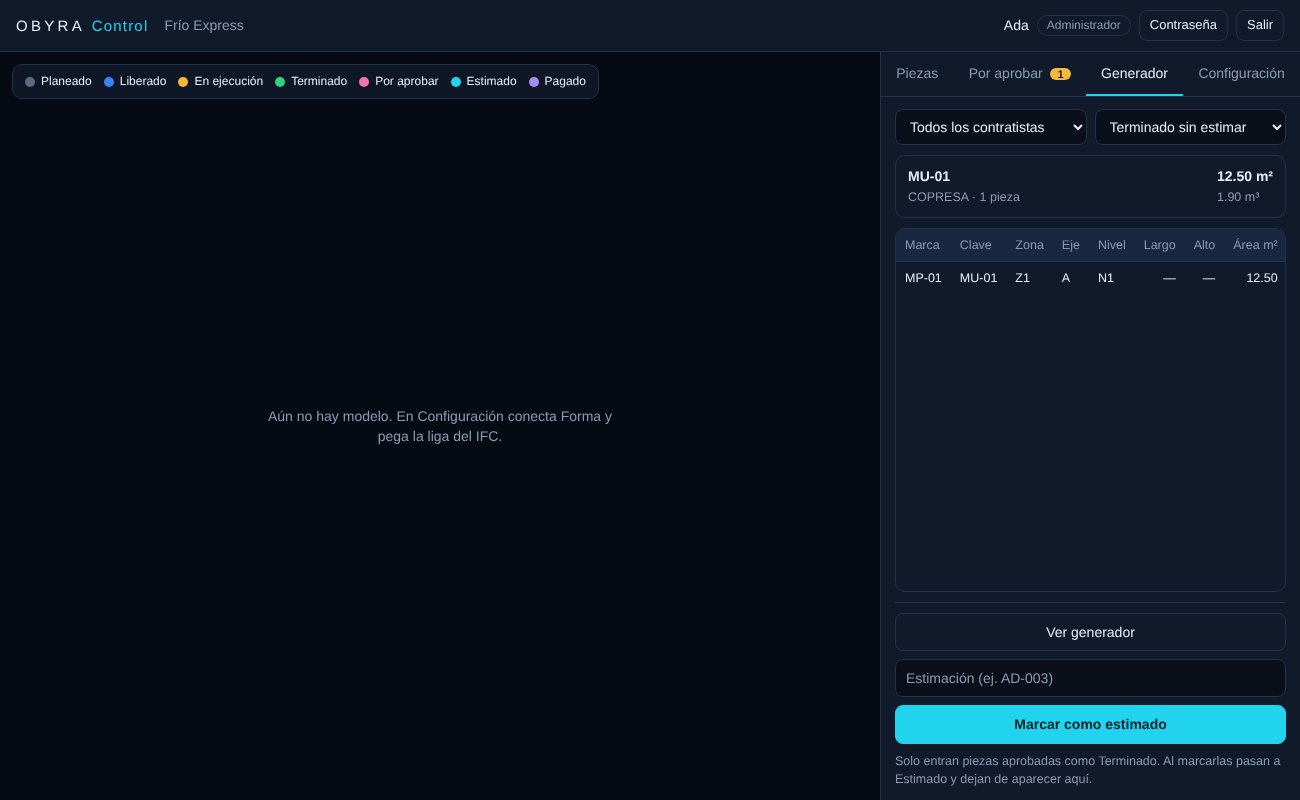
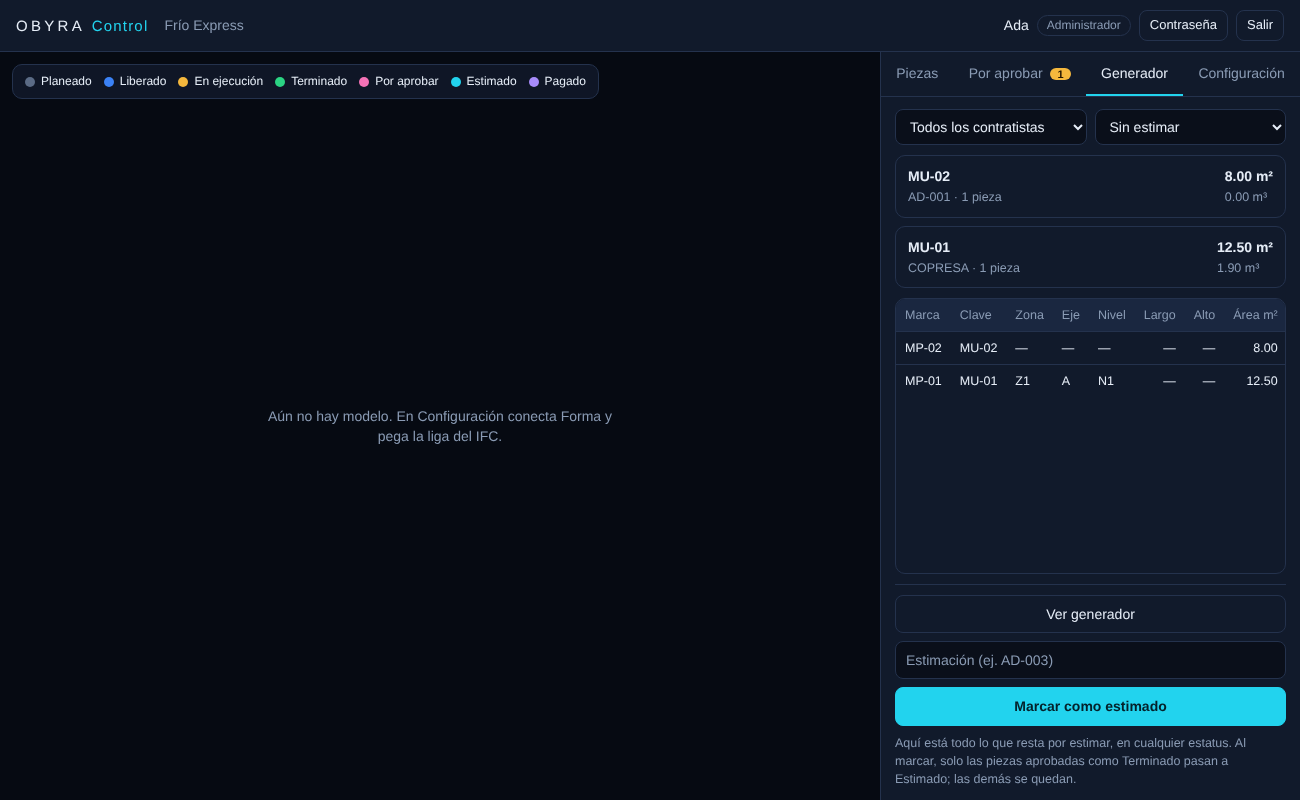
Generador: vista "Sin estimar" con todo lo que resta, en cualquier estatus
Marcar como estimado sigue aplicando solo a piezas terminadas y aprobadas.

Claude-Session: https://claude.ai/code/session_016C4SN1LCdYAxZtzhnanQV2

diff --git a/public/app.js b/public/app.js
@@ -378,7 +378,7 @@
     return Object.keys(S.piezas).filter(function (g) {
       var p = S.piezas[g], r = rec(g);
       if (c && p.contratista !== c) return false;
-      if (vista === "porestimar") return r.estatus === "Terminado" && !r.pend;
+      if (vista === "porestimar") return !r.estimacion; // cualquier estatus: lo que resta por estimar
       if (vista === "estimadas") {
         var n = $("g-estnum").value;
         return !!r.estimacion && (!n || r.estimacion === n);
@@ -417,7 +417,7 @@
         el("b", { text: x.clave + (x.partida ? " · " + x.partida : "") }), el("b", { text: f2(x.area) + " m²" }),
         el("span", { class: "s", text: x.contratista + " · " + x.piezas + (x.piezas === 1 ? " pieza" : " piezas") }), el("span", { class: "s", text: f2(x.volumen) + " m³" }),
       ]);
-    }) : [el("p", { class: "muted", text: { porestimar: "No hay piezas terminadas y aprobadas pendientes de estimar.", estimadas: "Todavía no hay piezas estimadas." }[$("g-vista").value] || "No hay piezas." })]);
+    }) : [el("p", { class: "muted", text: { porestimar: "No quedan piezas por estimar.", estimadas: "Todavía no hay piezas estimadas." }[$("g-vista").value] || "No hay piezas." })]);
     var head = el("tr", null, ["Marca", "Clave", "Zona", "Eje", "Nivel", "Largo", "Alto", "Área m²", "Vol. m³", "Estatus", "Estimación"].map(function (h, i) { return el("th", { class: i >= 5 && i <= 8 ? "num" : null, text: h }); }));
     var rows = filas.map(function (g) {
       var p = S.piezas[g], r = rec(g);
@@ -456,7 +456,7 @@
   }
   function descripcionVista() {
     var v = $("g-vista").value;
-    if (v === "porestimar") return "Terminado sin estimar";
+    if (v === "porestimar") return "Sin estimar";
     if (v === "estimadas") return $("g-estnum").value ? "Estimación " + $("g-estnum").value : "Todas las estimadas";
     return "Todas las piezas";
   }
@@ -731,11 +731,11 @@
       var est = $("g-est").value.trim();
       if (!est) { toast("Escribe la estimación (ej. AD-003)."); $("g-est").focus(); return; }
       var guids = genFilas().filter(function (g) { return rec(g).estatus === "Terminado" && !rec(g).pend; });
-      if (!guids.length) { toast("No hay piezas terminadas sin estimar con este filtro."); return; }
+      if (!guids.length) { toast("No hay piezas terminadas y aprobadas para estimar con este filtro."); return; }
       var btn = $("g-marcar");
       if (btn.getAttribute("data-confirm") !== est) {
         btn.setAttribute("data-confirm", est);
-        btn.textContent = "Confirmar: " + guids.length + " piezas a " + est.toUpperCase();
+        btn.textContent = "Confirmar: " + guids.length + (guids.length === 1 ? " terminada" : " terminadas") + " a " + est.toUpperCase();
         setTimeout(function () { btn.removeAttribute("data-confirm"); btn.textContent = "Marcar como estimado"; }, 6000);
         return;
       }

diff --git a/public/index.html b/public/index.html
@@ -98,7 +98,7 @@
           <div class="filters">
             <select id="g-contratista" aria-label="Contratista"></select>
             <select id="g-vista" aria-label="Qué piezas">
-              <option value="porestimar">Terminado sin estimar</option>
+              <option value="porestimar">Sin estimar</option>
               <option value="estimadas">Estimadas</option>
               <option value="todas">Todas las piezas</option>
             </select>
@@ -112,7 +112,7 @@
               <input id="g-est" type="text" maxlength="30" placeholder="Estimación (ej. AD-003)" aria-label="Estimación">
               <button id="g-marcar" class="btn btn-primary" type="button">Marcar como estimado</button>
             </div>
-            <p class="hint" id="g-hint">Solo entran piezas aprobadas como Terminado. Al marcarlas pasan a Estimado y dejan de aparecer aquí.</p>
+            <p class="hint" id="g-hint">Aquí está todo lo que resta por estimar, en cualquier estatus. Al marcar, solo las piezas aprobadas como Terminado pasan a Estimado; las demás se quedan.</p>
           </div>
         </section>
 

diff --git a/README.md b/README.md
@@ -5,7 +5,7 @@ Hermano de OBYRA para el control de obra **por pieza** sobre el modelo IFC que v
 1. **Visor** del IFC coloreado por estatus. Cada contratista solo ve sus piezas.
 2. **Reporte de avance**: el contratista selecciona piezas (en la lista o en el modelo) y envía *En ejecución %* o *Terminado*; queda **por aprobar**.
 3. **Aprobación**: solo residente o superintendente aprueba o rechaza; los demás ven cuántos avances están pendientes (el rechazo exige motivo). Todo queda en la bitácora de cada pieza.
-4. **Generador** por contratista: piezas terminadas y aprobadas, resumen por clave de concepto, Excel (hojas *Resumen* y *Generador*) y **Marcar como estimado** con el número de estimación.
+4. **Generador** por contratista: lo que resta por estimar (en cualquier estatus), lo ya estimado por número de estimación, resumen por clave de concepto, Excel (hojas *Resumen* y *Generador*) y **Marcar como estimado** con el número de estimación.
 
 Usuarios y contraseñas propios (no requiere cuenta de Autodesk). Solo el administrador conecta Forma una vez.
 
